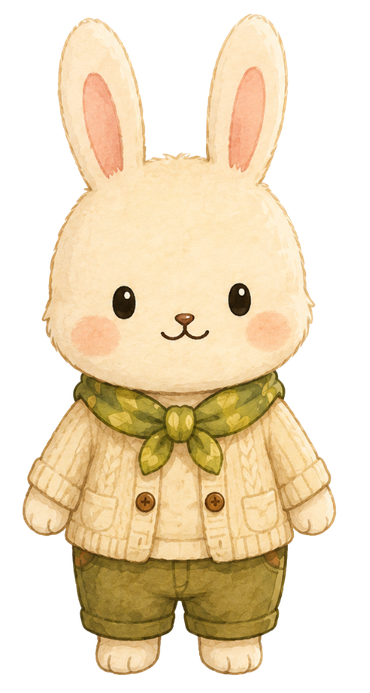
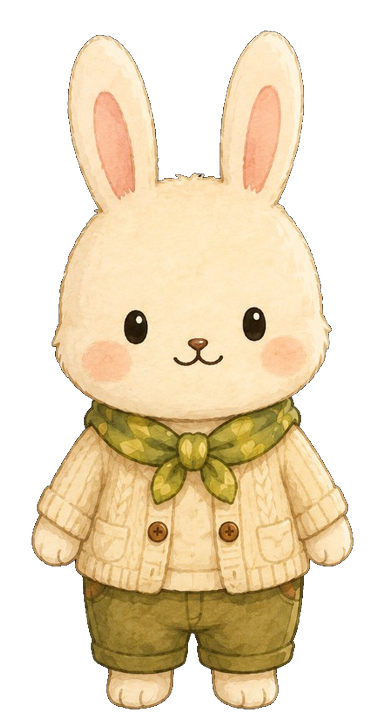
ログハウスのうさぎに立ち・瞬き・歩きを追加し、椅子の手前に見えるようにする。

Changed region(s): [[0.0595, 0.0, 0.9216, 1.0], [0.4459, 0.4545, 0.5946, 0.5152]]

diff --git a/src/components/orders/loghouse-room/LogHouseRoomRabbitAvatar.tsx b/src/components/orders/loghouse-room/LogHouseRoomRabbitAvatar.tsx
@@ -1,31 +1,155 @@
 "use client";
 
 import Image from "next/image";
-import { useCallback, useState } from "react";
+import { useCallback, useEffect, useRef, useState } from "react";
 
 import {
   LOG_HOUSE_ROOM_RABBIT_GREETING,
   LOG_HOUSE_ROOM_SPOT_COPY,
 } from "@/lib/loghouse/logHouseRoomCopy";
-import { LOG_HOUSE_ROOM_RABBIT_SRC } from "@/lib/loghouse/logHouseRoomAssets";
-import { LOG_HOUSE_ROOM_RABBIT_PLACEMENT } from "@/lib/loghouse/logHouseRoomLayout";
+import {
+  LOG_HOUSE_ROOM_RABBIT_POSE_SRC,
+  type LogHouseRoomRabbitPose,
+} from "@/lib/loghouse/logHouseRoomAssets";
+import {
+  LOG_HOUSE_ROOM_RABBIT_PLACEMENT,
+  LOG_HOUSE_ROOM_RABBIT_WAYPOINTS,
+} from "@/lib/loghouse/logHouseRoomLayout";
 
 type Props = {
   className?: string;
 };
 
-/** ログハウス室内の分身うさぎ（idle + タップ反応） */
-export function LogHouseRoomRabbitAvatar({ className = "" }: Props) {
-  const [showBubble, setShowBubble] = useState(false);
-  const [bounce, setBounce] = useState(false);
+type Point = { x: number; y: number };
 
+const POSES = Object.keys(LOG_HOUSE_ROOM_RABBIT_POSE_SRC) as LogHouseRoomRabbitPose[];
+
+function randomBetween(minMs: number, maxMs: number) {
+  return minMs + Math.floor(Math.random() * (maxMs - minMs + 1));
+}
+
+function pickNextWaypoint(current: Point): Point {
+  const options = LOG_HOUSE_ROOM_RABBIT_WAYPOINTS.filter(
+    (point) => Math.hypot(point.x - current.x, point.y - current.y) > 4,
+  );
+  const pool = options.length > 0 ? options : [...LOG_HOUSE_ROOM_RABBIT_WAYPOINTS];
+  return pool[Math.floor(Math.random() * pool.length)]!;
+}
+
+function walkDurationMs(from: Point, to: Point) {
+  const distance = Math.hypot(to.x - from.x, to.y - from.y);
+  return Math.round(Math.min(9000, Math.max(2800, distance * 220)));
+}
+
+/** ログハウス室内の分身うさぎ（立ち・瞬き・歩き） */
+export function LogHouseRoomRabbitAvatar({ className = "" }: Props) {
   const placement = LOG_HOUSE_ROOM_RABBIT_PLACEMENT;
+  const home = LOG_HOUSE_ROOM_RABBIT_WAYPOINTS[0]!;
+
+  const [pose, setPose] = useState<LogHouseRoomRabbitPose>("idle");
+  const [position, setPosition] = useState<Point>(home);
+  const [moveMs, setMoveMs] = useState(0);
+  const [walking, setWalking] = useState(false);
+  const [showBubble, setShowBubble] = useState(false);
+  const [tapBounce, setTapBounce] = useState(false);
+  const [reduceMotion, setReduceMotion] = useState(false);
+
+  const positionRef = useRef(position);
+  positionRef.current = position;
+  const walkingRef = useRef(false);
+  const generationRef = useRef(0);
+
+  useEffect(() => {
+    const media = window.matchMedia("(prefers-reduced-motion: reduce)");
+    const sync = () => setReduceMotion(media.matches);
+    sync();
+    media.addEventListener("change", sync);
+    return () => media.removeEventListener("change", sync);
+  }, []);
+
+  useEffect(() => {
+    Object.values(LOG_HOUSE_ROOM_RABBIT_POSE_SRC).forEach((src) => {
+      const img = new window.Image();
+      img.src = src;
+    });
+  }, []);
+
+  useEffect(() => {
+    const generation = ++generationRef.current;
+    const timers: number[] = [];
+
+    const alive = () => generationRef.current === generation;
+    const later = (fn: () => void, ms: number) => {
+      const id = window.setTimeout(() => {
+        if (alive()) fn();
+      }, ms);
+      timers.push(id);
+    };
+
+    const scheduleBlink = () => {
+      later(() => {
+        if (walkingRef.current) {
+          scheduleBlink();
+          return;
+        }
+        setPose("blink");
+        later(() => {
+          if (!walkingRef.current) setPose("idle");
+          scheduleBlink();
+        }, 160);
+      }, randomBetween(2400, 4800));
+    };
+
+    const scheduleNextWalk = () => {
+      if (reduceMotion) return;
+      later(() => {
+        const current = positionRef.current;
+        const next = pickNextWaypoint(current);
+        const duration = walkDurationMs(current, next);
+        const facingRight = next.x >= current.x;
+
+        walkingRef.current = true;
+        setWalking(true);
+        setPose(facingRight ? "walkRight" : "walkLeft");
+        setMoveMs(duration);
+
+        later(() => {
+          setPosition(next);
+        }, 40);
+
+        later(() => {
+          walkingRef.current = false;
+          setWalking(false);
+          setPose("idle");
+          setMoveMs(0);
+          scheduleNextWalk();
+        }, duration + 120);
+      }, randomBetween(5200, 9000));
+    };
+
+    scheduleBlink();
+    scheduleNextWalk();
+
+    return () => {
+      generationRef.current += 1;
+      timers.forEach((id) => window.clearTimeout(id));
+      walkingRef.current = false;
+    };
+  }, [reduceMotion]);
 
   const handleTap = useCallback(() => {
     setShowBubble((prev) => !prev);
-    setBounce(true);
-    window.setTimeout(() => setBounce(false), 280);
+    setTapBounce(true);
+    window.setTimeout(() => setTapBounce(false), 280);
   }, []);
+
+  const motionClass = tapBounce
+    ? "scale-105 -translate-y-1"
+    : walking
+      ? "animate-[loghouseRabbitWalkBob_0.55s_ease-in-out_infinite]"
+      : reduceMotion
+        ? ""
+        : "animate-[loghouseRabbitIdle_3.5s_ease-in-out_infinite]";
 
   return (
     <button
@@ -34,17 +158,20 @@ export function LogHouseRoomRabbitAvatar({ className = "" }: Props) {
       onClick={handleTap}
       className={[
         "absolute transition-transform duration-200 ease-out",
-        bounce ? "scale-105 -translate-y-1" : "animate-[loghouseRabbitIdle_3.5s_ease-in-out_infinite]",
+        motionClass,
         className,
       ]
         .filter(Boolean)
         .join(" ")}
       style={{
-        left: `${placement.x}%`,
-        top: `${placement.y}%`,
+        left: `${position.x}%`,
+        top: `${position.y}%`,
         width: `${placement.width}%`,
         height: `${placement.height}%`,
         zIndex: placement.zIndex,
+        transitionProperty: moveMs > 0 ? "left, top, transform" : "transform",
+        transitionDuration: moveMs > 0 ? `${moveMs}ms` : "200ms",
+        transitionTimingFunction: walking ? "linear" : "ease-out",
       }}
     >
       {showBubble ? (
@@ -55,14 +182,23 @@ export function LogHouseRoomRabbitAvatar({ className = "" }: Props) {
           {LOG_HOUSE_ROOM_RABBIT_GREETING}
         </span>
       ) : null}
-      <Image
-        src={LOG_HOUSE_ROOM_RABBIT_SRC}
-        alt=""
-        fill
-        className="object-contain object-center drop-shadow-[0_4px_12px_rgba(74,55,40,0.18)]"
-        sizes="28vw"
-        unoptimized
-      />
+      <span className="absolute inset-0">
+        {POSES.map((poseId) => (
+          <Image
+            key={poseId}
+            src={LOG_HOUSE_ROOM_RABBIT_POSE_SRC[poseId]}
+            alt=""
+            fill
+            className={[
+              "object-contain object-bottom drop-shadow-[0_4px_12px_rgba(74,55,40,0.18)] transition-opacity duration-100",
+              pose === poseId ? "opacity-100" : "opacity-0",
+            ].join(" ")}
+            sizes="28vw"
+            unoptimized
+            priority={poseId === "idle"}
+          />
+        ))}
+      </span>
       <span className="sr-only">{LOG_HOUSE_ROOM_SPOT_COPY.residentCard.label}</span>
     </button>
   );

diff --git a/src/lib/loghouse/logHouseRoomAssets.ts b/src/lib/loghouse/logHouseRoomAssets.ts
@@ -2,7 +2,7 @@
 
 export const LOG_HOUSE_ROOM_ASSET_DIR = "/images/ljd/loghouse-room" as const;
 
-const LOG_HOUSE_ROOM_ASSET_VERSION = 5;
+const LOG_HOUSE_ROOM_ASSET_VERSION = 6;
 
 function logHouseRoomAsset(filename: string): string {
   return `${LOG_HOUSE_ROOM_ASSET_DIR}/${filename}?v=${LOG_HOUSE_ROOM_ASSET_VERSION}`;
@@ -48,9 +48,19 @@ export const LOG_HOUSE_ROOM_PART_INTRINSIC: Record<
   residentCard: { widthPx: 720, heightPx: 720 },
   todayResult: { widthPx: 720, heightPx: 720 },
   radio: { widthPx: 629, heightPx: 488 },
-  rabbit: { widthPx: 370, heightPx: 693 },
+  rabbit: { widthPx: 385, heightPx: 720 },
 };
 
 export const LOG_HOUSE_ROOM_RABBIT_SRC = LOG_HOUSE_ROOM_PART_SRC.rabbit;
 
 export const LOG_HOUSE_ROOM_RABBIT_INTRINSIC = LOG_HOUSE_ROOM_PART_INTRINSIC.rabbit;
+
+/** 分身うさぎ：立ち／瞬き／歩き（左右） */
+export const LOG_HOUSE_ROOM_RABBIT_POSE_SRC = {
+  idle: LOG_HOUSE_ROOM_RABBIT_SRC,
+  blink: logHouseRoomAsset("loghouse_rabbit_blink.png"),
+  walkLeft: logHouseRoomAsset("loghouse_rabbit_walk_left.png"),
+  walkRight: logHouseRoomAsset("loghouse_rabbit_walk_right.png"),
+} as const;
+
+export type LogHouseRoomRabbitPose = keyof typeof LOG_HOUSE_ROOM_RABBIT_POSE_SRC;

diff --git a/src/lib/loghouse/logHouseRoomLayout.ts b/src/lib/loghouse/logHouseRoomLayout.ts
@@ -28,5 +28,15 @@ export const LOG_HOUSE_ROOM_RABBIT_PLACEMENT = {
   y: 48,
   width: 22,
   height: 34,
-  zIndex: 18,
+  /** 椅子より手前（隠れないように） */
+  zIndex: 22,
 } as const;
+
+/** 室内をゆっくり巡回する立ち位置（left/top %・足元イメージ） */
+export const LOG_HOUSE_ROOM_RABBIT_WAYPOINTS = [
+  { x: 38, y: 48 },
+  { x: 24, y: 52 },
+  { x: 44, y: 50 },
+  { x: 30, y: 46 },
+  { x: 48, y: 54 },
+] as const;

diff --git a/src/app/globals.css b/src/app/globals.css
@@ -158,3 +158,13 @@ html[data-reading-font-size="x-large"] .lj-reading-exempt {
     transform: translateY(-3px);
   }
 }
+
+@keyframes loghouseRabbitWalkBob {
+  0%,
+  100% {
+    transform: translateY(0);
+  }
+  50% {
+    transform: translateY(-5px);
+  }
+}

diff --git a/public/images/ljd/loghouse-room/README.md b/public/images/ljd/loghouse-room/README.md
@@ -18,7 +18,10 @@
 | `loghouse_resident_card.png` | 壁の住民票（タップ可） |
 | `loghouse_today_result.png` | 今日の鑑定結果（タップ可） |
 | `loghouse_radio.png` | ラジカセ（タップ可） |
-| `loghouse_rabbit.png` | 分身うさぎ（タップで吹き出し） |
+| `loghouse_rabbit.png` | 分身うさぎ・立ち |
+| `loghouse_rabbit_blink.png` | 分身うさぎ・瞬き |
+| `loghouse_rabbit_walk_left.png` | 分身うさぎ・左向き歩き |
+| `loghouse_rabbit_walk_right.png` | 分身うさぎ・右向き歩き |
 | `loghouse_chair.png` | 椅子とテーブル（見た目のみ・タップなし） |
 
 ## 座標調整
